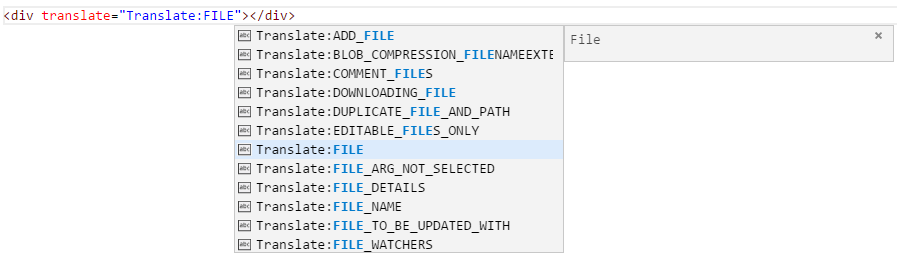
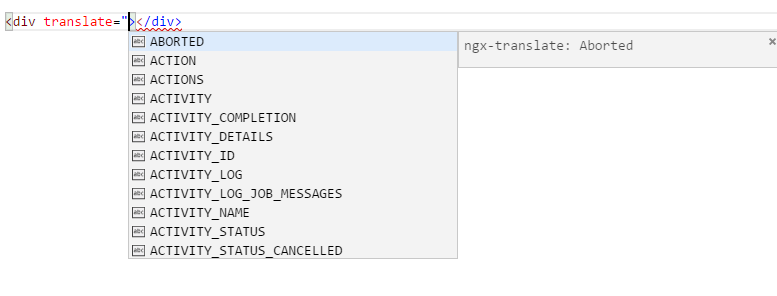
Added images to readme

Changed region(s): [[0.0, 0.0305, 1.0, 0.8855], [0.2471, 0.916, 0.6178, 0.9771], [0.5869, 0.5191, 0.6486, 0.6107]]

diff --git a/README.md b/README.md
@@ -6,6 +6,18 @@ Using [ngx-translate](http://www.ngx-translate.com/) your html will have referen
 
 This extension will read a resources.resx file and then provide intellisense and code completion displaying available keys and values. It will also provide highlighting of values that do not exist in the resx file.
 
+### Code Completion
+
+![code completion image](screenshots/intellisense.png)
+
+### Missing value warnings
+
+![missing values image](screenshots/problems.png)
+
+### Hover information
+
+![hover info image](screenshots/hover.png)
+
 ## Extension Settings
 
 This extension contributes the following settings:

diff --git a/CHANGELOG.md b/CHANGELOG.md
@@ -2,6 +2,11 @@
 
 All notable changes to the "ngx-translate-lookup" extension will be documented in this file.
 
+## 1.0.1
+
+- Improved values on code completion to make it easier to select while typing.
+- Added feature images to readme.md.
+
 ## 1.0.0
 
 - Initial release with intellisense, code completion and problem marking for missing strings.
